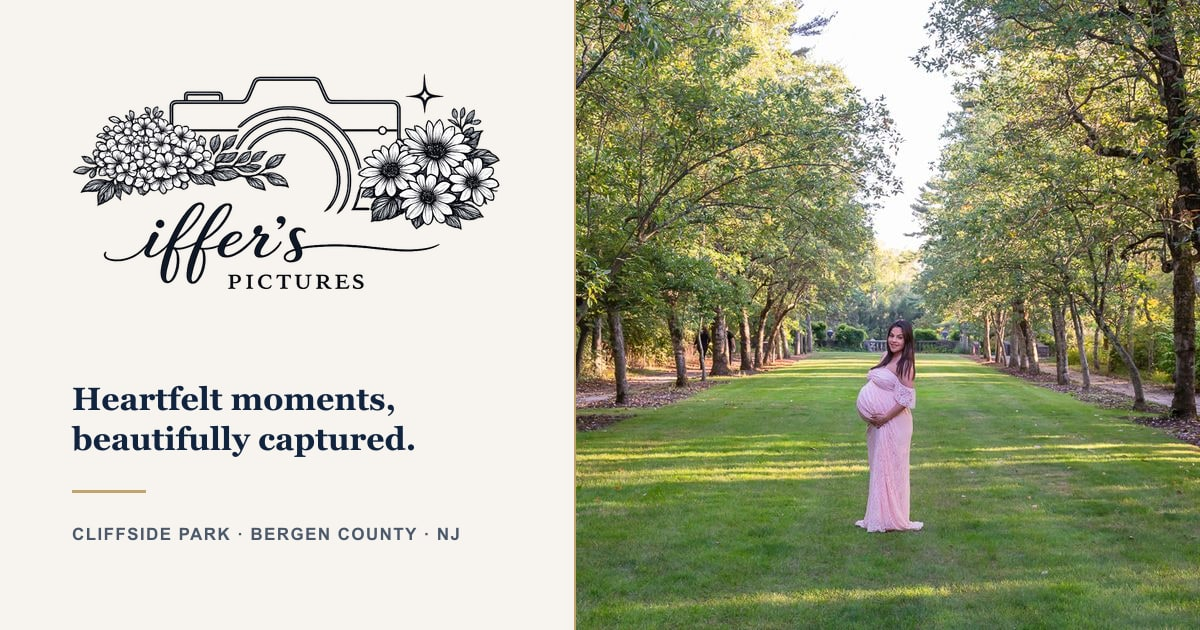
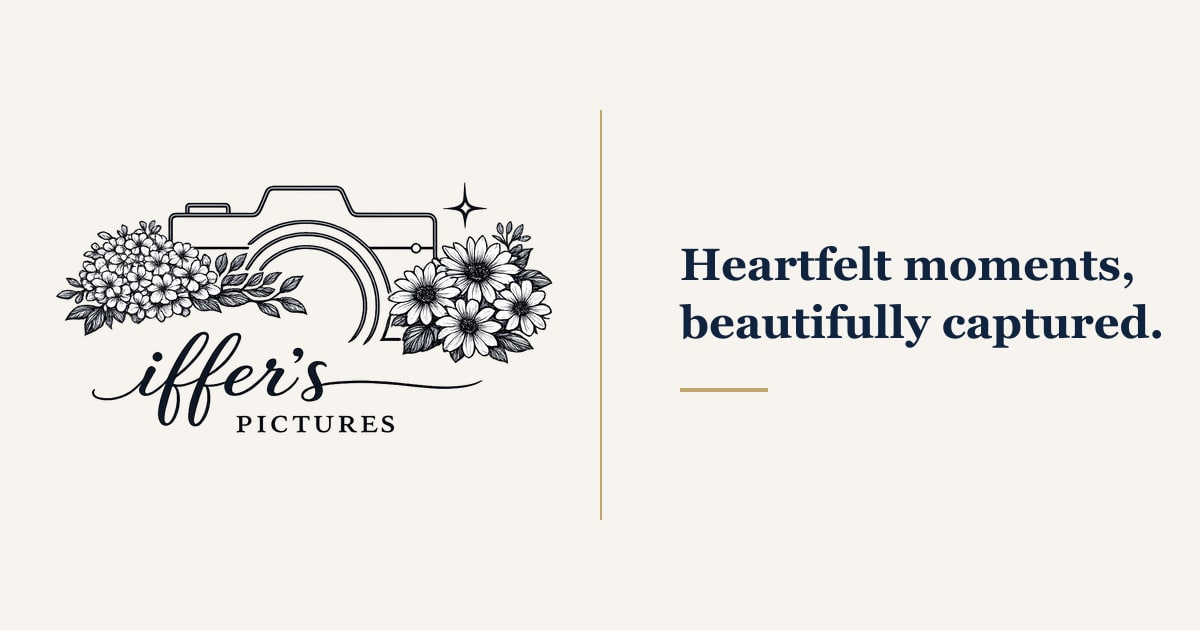
DEV-1040 simplify social preview layout

diff --git a/docs/deployment_summary.md b/docs/deployment_summary.md
@@ -3,7 +3,7 @@
 ## Latest deploy summary
 
 -
-- Added a branded social sharing image so Facebook and other link previews display Iffer's Pictures photography instead of a blank thumbnail.
+- Added a branded social sharing image so Facebook and other link previews display Iffer's Pictures branding instead of a blank thumbnail.
 
 ## Notes for internal team
 
